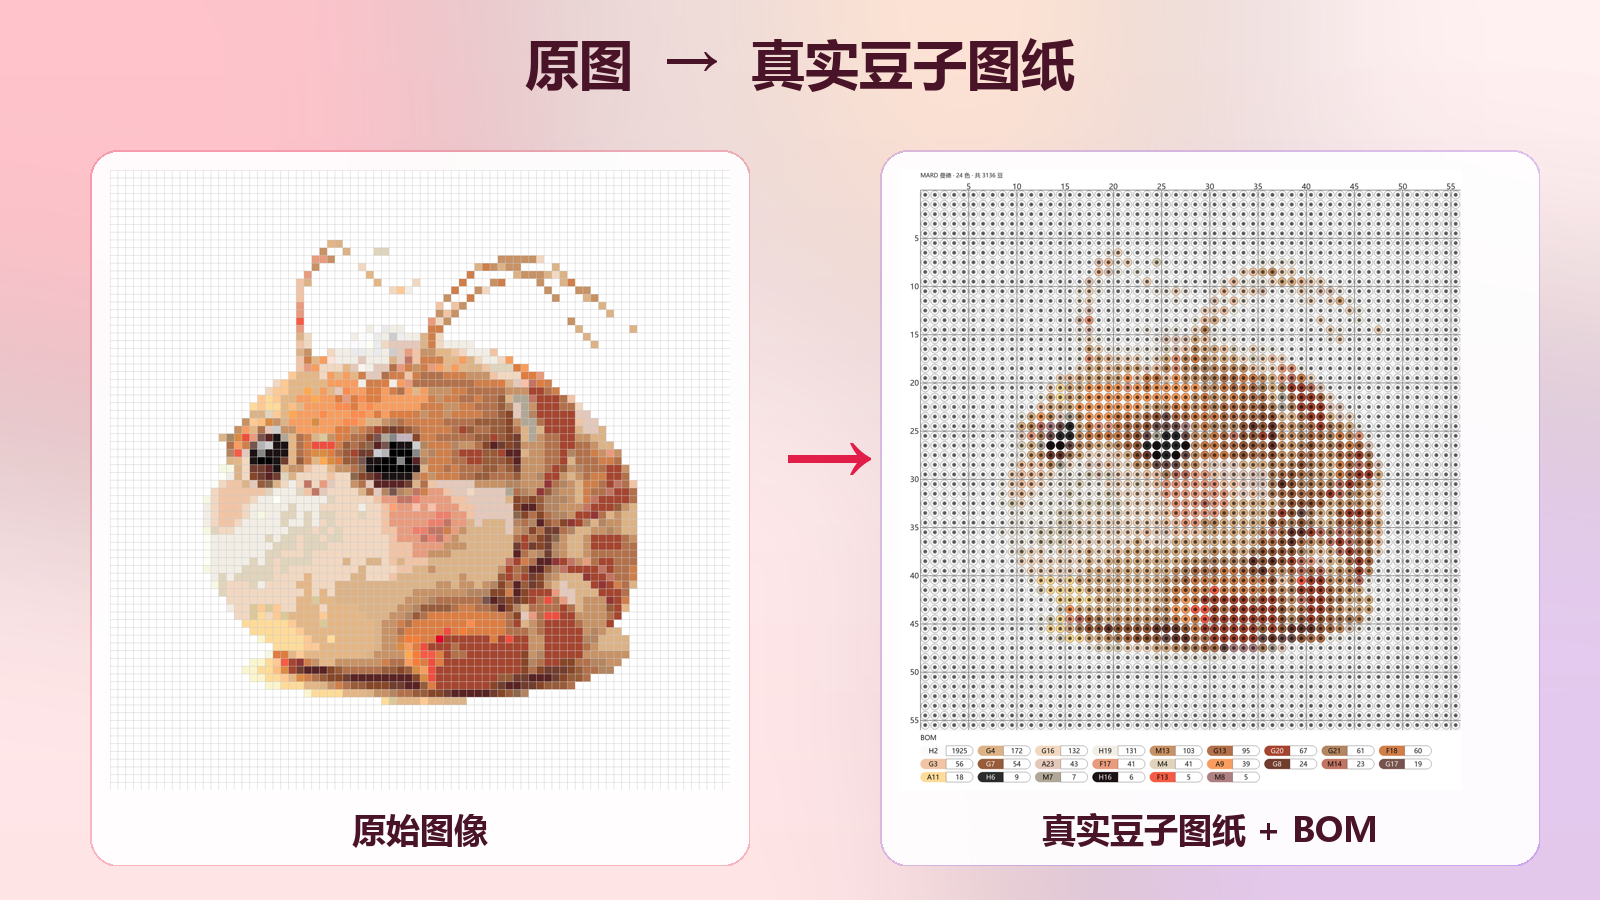
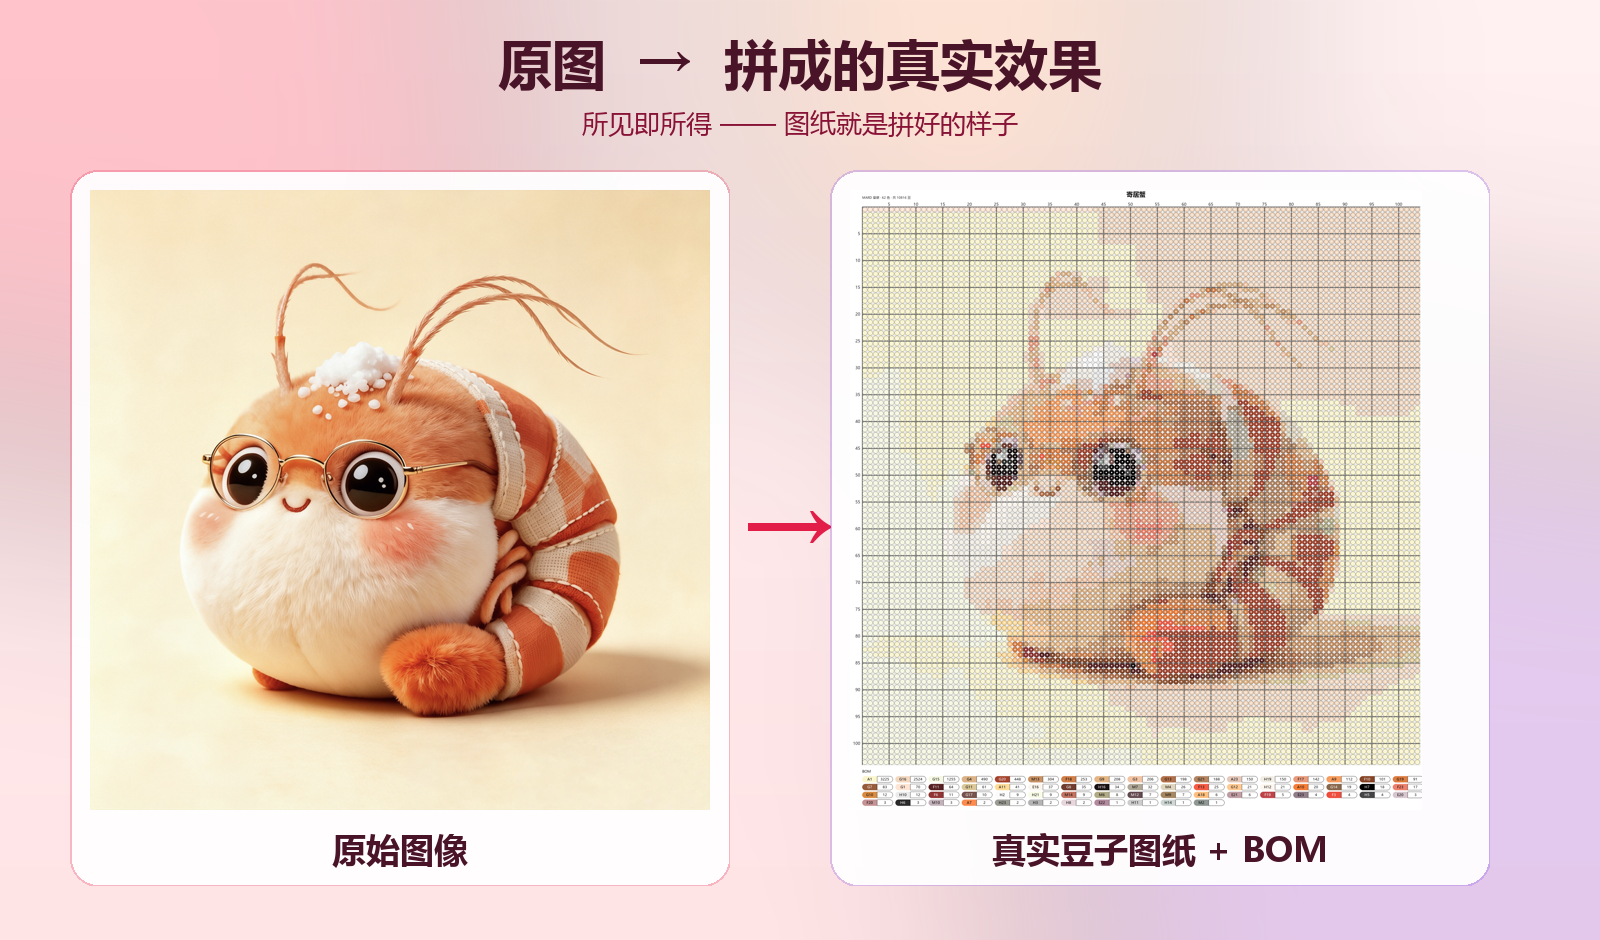
chore: 发版 v2.4.1 —— README 可视化重做
- bump 版本号 2.4.0 -> 2.4.1（src/__init__.py + pubspec.yaml 2.4.1+4）
- CHANGELOG 新增 v2.4.1 条目（真实豆子形态定稿 + mask 空底板，已在前序
  commit 落地）
- README 可视化重做：设备整屏图改用真实应用截图（安卓+桌面）+ 寄居蟹图纸，
  阴影贴合机身形状、屏幕圆角与边框平行，话术改「预览拼成的真实效果」；
  「为什么转得更准」新增卡片式功能示意图 features.png；删除豆子特写图

diff --git a/src/__init__.py b/src/__init__.py
@@ -2,6 +2,6 @@
 Perler Beads Designer - A tool for creating pixel art designs for perler beads
 """
 
-__version__ = "2.4.0"
+__version__ = "2.4.1"
 __author__ = "RecardoLyu"
 __description__ = "Design tool for perler beads pixel art"

diff --git a/README.md b/README.md
@@ -8,7 +8,7 @@
 
 全平台本地计算 · 无需联网 · 隐私不出机
 
-[![Version](https://img.shields.io/badge/version-2.4.0-E11D48)](https://github.com/RecardoLyu/PerlerBeadsDesigner/releases)
+[![Version](https://img.shields.io/badge/version-2.4.1-E11D48)](https://github.com/RecardoLyu/PerlerBeadsDesigner/releases)
 [![License](https://img.shields.io/badge/license-MIT-7C3AED)](LICENSE)
 [![Platform](https://img.shields.io/badge/platform-Windows%20%C2%B7%20macOS%20%C2%B7%20Linux%20%C2%B7%20Android-FB7185)](https://github.com/RecardoLyu/PerlerBeadsDesigner/releases)
 
@@ -28,14 +28,10 @@
 
 ## 效果一览
 
-从一张照片到一张可直接对照拼的真实豆子图纸，附带完整物料清单（BOM）。**真实豆子风格**用同心圆环 + 中央孔洞还原实物拼豆的穿孔质感，色号与数量统一放在图纸主体之外的 BOM 区，干净易读。
+从一张照片到一张可直接对照拼的真实豆子图纸 —— **所见即所得，图纸就是拼好的样子**。附带完整物料清单（BOM）。**真实豆子风格**用同心圆环 + 中央孔洞（透出底板色）还原实物拼豆插在底板上的穿孔质感，色号与数量统一放在图纸主体之外的 BOM 区，干净易读。
 
 <div align="center">
-<img src=".github/assets/compare.png" width="880" alt="原图 → 真实豆子图纸">
-</div>
-
-<div align="center">
-<img src=".github/assets/bead_closeup.png" width="640" alt="真实豆子局部特写">
+<img src=".github/assets/compare.png" width="880" alt="原图 → 拼成的真实效果">
 </div>
 
 ---
@@ -56,11 +52,16 @@
 
 不靠运气，靠一套针对「把照片变成拼豆」这件事打磨的转换管线 —— 在不泄露实现细节的前提下，它为你做了这几件事：
 
-- **智能抠图**：多种前景分割策略 + 涂抹细化，把主体干净地从背景里取出来，背景不计入用料。
+<div align="center">
+<img src=".github/assets/features.png" width="880" alt="为什么转得更准、更好拼">
+</div>
+
+- **智能抠图分割**：多种前景分割策略 + 涂抹细化，把主体干净地从背景里取出来，背景不计入用料。
 - **贴近人眼的配色**：多种感知色差度量（默认 CIEDE2000），让选出的豆色更接近你眼睛看到的样子，而不是机械的数字距离。
-- **真实色库**：内置 **5 大拼豆品牌**的真实色号库，图纸上的每个色号都能买到对应的豆子。
+- **五品牌真实色库**：内置 **5 大拼豆品牌**的真实色号库，图纸上的每个色号都能买到对应的豆子。
 - **省豆又干净**：颜色上限控制 + 抖动过渡 + 高阶优化，把任意照片收敛成**省豆、易拼、少噪点**的图纸。
 - **细节保留**：显著性细节保留强度可调，小脸、小边缘不被量化抹平。
+- **高清导出打印**：带网格编号与 BOM 物料清单的高清图纸，打印出来就能对照拼。
 
 最终效果：**照片进，图纸出** —— 颜色准、噪点少、用料清单清晰，照着 BOM 就能拼。
 
@@ -179,5 +180,5 @@
 ---
 
 <div align="center">
-<sub><b>版本</b> 2.4.0 · <b>最后更新</b> 2026 年 8 月</sub>
+<sub><b>版本</b> 2.4.1 · <b>最后更新</b> 2026 年 8 月</sub>
 </div>

diff --git a/CHANGELOG.md b/CHANGELOG.md
@@ -4,6 +4,25 @@
 
 格式遵循 [Keep a Changelog](https://keepachangelog.com/zh-CN/) 标准。
 
+## [2.4.1] - 2026-08-04
+
+### 修复
+
+- **真实豆子渲染形态定稿**：由 v2.4.0 的「围棋样实心圆 + 高光」改为**同心圆环 +
+  中央孔洞**，还原拼豆材料的真实穿孔。中央孔洞透出**底板色**（浅米白），不再是
+  黑色阴影；孔径收窄到更贴近实物的比例，孔洞外缘保留一圈压暗描边模拟穿孔内壁
+  阴影。桌面 `_draw_bead` 与移动 `_drawBead` 双端同步
+- **Mask 背景格改画空底板**：真实豆子风格下，被 Mask 掉的背景格不再画任何豆子
+  （v2.4.0 画的是白色/浅色淡化豆），只保留方格网格线 —— 背景本就不计豆、不进
+  BOM，现在视觉上也与实物一致。经典方格风格行为不变
+
+### 变更
+
+- **README 可视化重做**：设备整屏展示图改用**真实应用截图**（安卓 + 桌面），图纸
+  源图换成寄居蟹玩偶，并以定稿后的真实豆子渲染嵌入电脑/手机框；设备阴影贴合
+  机身形状，屏幕圆角与边框平行同心；话术改为「预览拼成的真实效果」。「为什么
+  转得更准、更好拼」新增卡片式功能示意图，删除原豆子特写图
+
 ## [2.4.0] - 2026-08-04
 
 ### 新增
